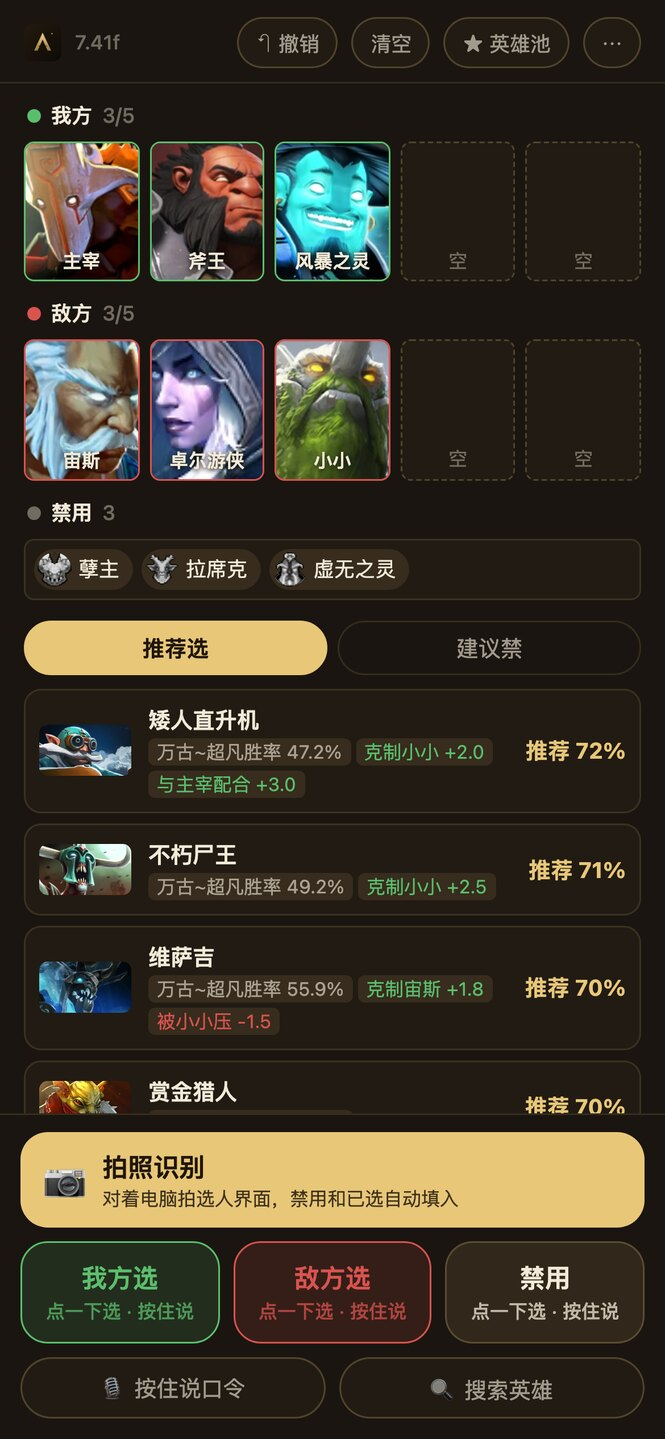
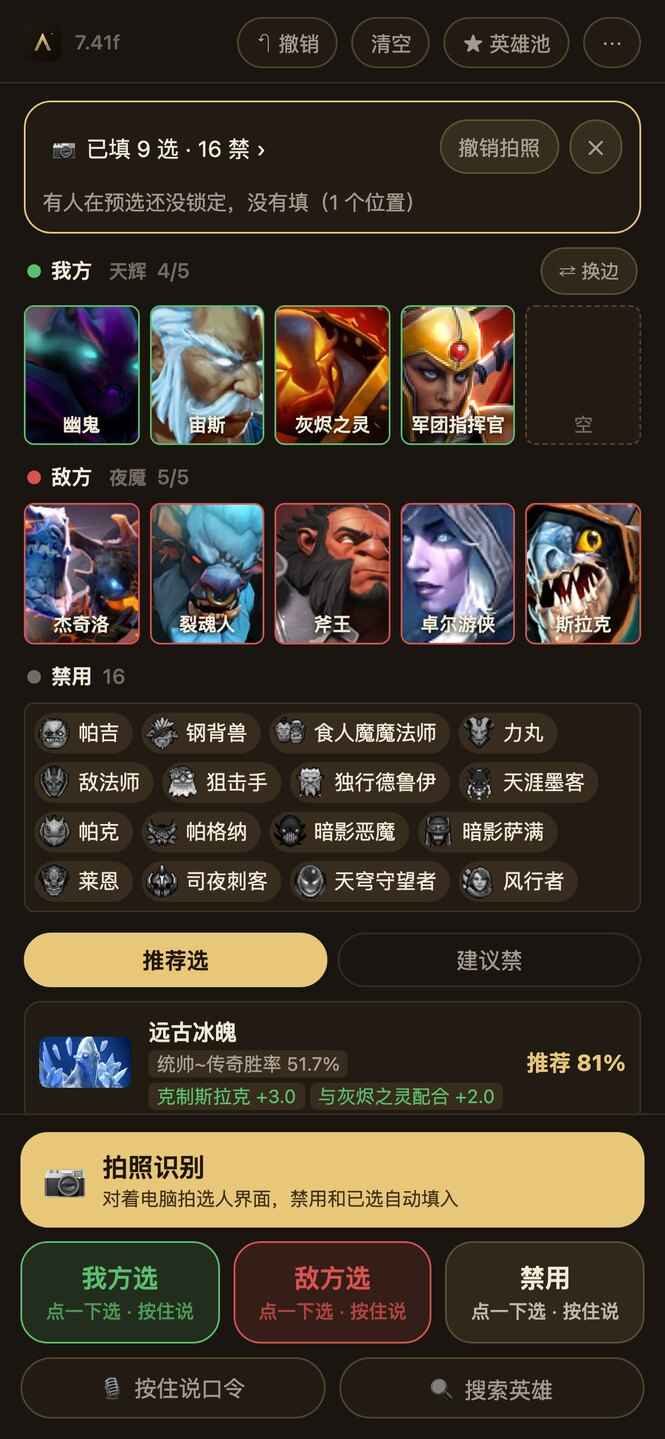
docs(site): phone BP screenshot shows a board filled by one photo

diff --git a/en/index.html b/en/index.html
@@ -946,7 +946,7 @@
               </div>
               <span class="hc-bp-label desk"><b>Desktop</b> · Alt+Shift+B in draft</span>
               <div class="hc-bp-phone">
-                <img src="../assets/screens/bp-mobile-en.jpg?v=2" width="665" height="1440" alt="AMEFYS phone draft page: both line-ups, suggested picks and the photo-scan button" loading="eager" decoding="async" />
+                <img src="../assets/screens/bp-mobile-en.jpg?v=3" width="665" height="1440" alt="AMEFYS phone draft page after a photo scan: both line-ups and 16 bans filled in" loading="eager" decoding="async" />
               </div>
               <span class="hc-bp-label phone"><b>Phone</b> · amefys.com/bp</span>
             </div>
@@ -1189,7 +1189,7 @@
           <figcaption><b>Desktop · overlay</b>Press <kbd>Alt+Shift+B</kbd> during the draft. Left click: our pick, right click: their pick, Ctrl+click: ban. Three tabs on the right: Picks / Bans / Line-ups.</figcaption>
         </figure>
         <figure class="bp-shot bp-shot-phone">
-          <img src="../assets/screens/bp-mobile-en.jpg?v=2" width="665" height="1440" alt="AMEFYS phone draft page: both line-ups, bans, suggested picks and the photo-scan button" loading="lazy" decoding="async" />
+          <img src="../assets/screens/bp-mobile-en.jpg?v=3" width="665" height="1440" alt="AMEFYS phone draft page after one photo of the pick screen: 9 picks and 16 bans filled in, suggested picks below" loading="lazy" decoding="async" />
           <figcaption><b>Phone · browser</b>Open <a href="/bp/">amefys.com/bp</a>, or click “On phone” in the desktop app and scan the code. Tap heroes to fill the board, or photograph the pick screen on your PC (for now this reads the Chinese-language Dota client only). Nothing to install, nothing over your game.</figcaption>
         </figure>
       </div>

diff --git a/index.html b/index.html
@@ -1513,7 +1513,7 @@
               </div>
               <span class="hc-bp-label desk"><b>桌面版</b> · 选人时 Alt+Shift+B</span>
               <div class="hc-bp-phone">
-                <img src="assets/screens/bp-mobile.jpg?v=2" width="665" height="1440" alt="AMEFYS 手机版 BP 页：双方阵容、推荐选和拍照识别按钮" loading="eager" decoding="async" />
+                <img src="assets/screens/bp-mobile.jpg?v=3" width="665" height="1440" alt="AMEFYS 手机版 BP 页：拍照识别后自动填好的双方阵容和 16 个禁用" loading="eager" decoding="async" />
               </div>
               <span class="hc-bp-label phone"><b>手机版</b> · amefys.com/bp</span>
             </div>
@@ -1771,7 +1771,7 @@
           <figcaption><b>桌面版 · 悬浮窗</b>选人阶段按 <kbd>Alt+Shift+B</kbd> 打开。左键我方选、右键敌方选、Ctrl+点击禁用；右侧分「推荐 / 建议 Ban / 阵容」三页。</figcaption>
         </figure>
         <figure class="bp-shot bp-shot-phone">
-          <img src="assets/screens/bp-mobile.jpg?v=2" width="665" height="1440" alt="AMEFYS 手机版 BP 页：双方阵容、禁用、推荐选列表和拍照识别按钮" loading="lazy" decoding="async" />
+          <img src="assets/screens/bp-mobile.jpg?v=3" width="665" height="1440" alt="AMEFYS 手机版 BP 页：拍一张选人界面后，已填好 9 个选人、16 个禁用，下方是推荐选" loading="lazy" decoding="async" />
           <figcaption><b>手机版 · 浏览器</b>打开 <a href="/bp/">amefys.com/bp</a>，或在桌面版点「手机版」扫码。对着电脑拍一张选人界面，禁用和已选自动填进去；也可以按住按钮说英雄名。不挡游戏画面。</figcaption>
         </figure>
       </div>
